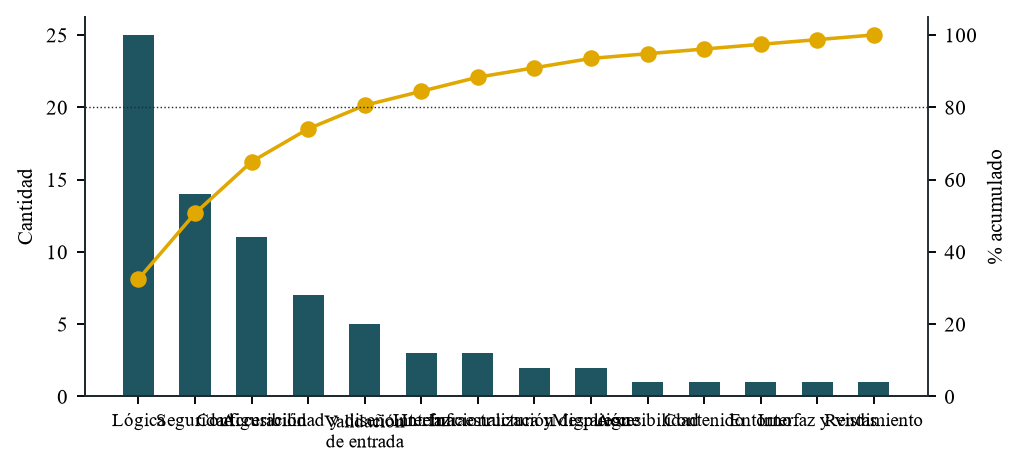
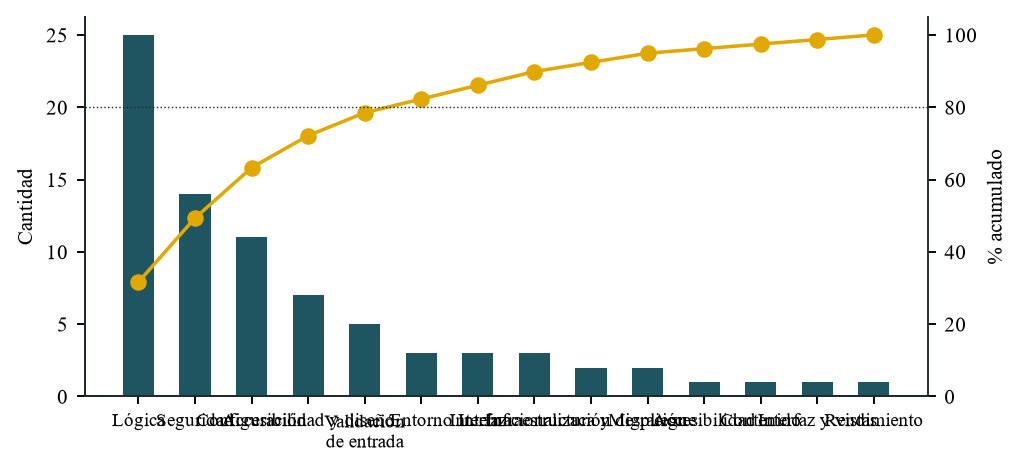
docs: log the emulator DNS loss and the ANR of the GPS background task

diff --git a/qa/datos_calidad.py b/qa/datos_calidad.py
@@ -320,6 +320,12 @@ DEFECTOS = [
     ('DEF-077', '18-nov-2026', 'Verificación de v1.0.0-rc1 en Azure', 'Tras actualizar, los menús en español seguían diciendo Indicadores y Reportes',
      'migrations/16.0.1.9.0/post-migrate.py', 'Una actualización sin --i18n-overwrite conserva las traducciones que ya estaban en la base, así que los menús renombrados mantenían el nombre viejo.',
      'Internacionalización', 'Cerrado', 'Producción: -u con --i18n-overwrite, menús Reportes, Tablero y Notificaciones (Willachikuna en kichwa); desarrollo: la migración devuelve el nombre nuevo a un menú con el viejo'),
+    ('DEF-078', '18-nov-2026', 'Prueba de la tableta en el emulador de Android Studio', 'El emulador perdió el DNS y la app mostraba «Sin conexión» al iniciar sesión',
+     'Entorno (emulador Android 17)', 'El emulador conserva el DNS de la red con la que arrancó; la red del PC cambió (red compartida y Tailscale) y dejó de resolver nombres, aunque las IP respondían.',
+     'Entorno', 'Cerrado', 'Reiniciar la red del emulador (svc wifi/data) o arrancarlo con -dns-server 8.8.8.8; después resolvió el dominio de Azure'),
+    ('DEF-079', '18-nov-2026', 'Prueba de la tableta en el emulador de Android Studio', 'Android muestra «la aplicación no responde» durante el turno aunque la app sigue funcionando',
+     'expo-task-manager (TaskJobService) en Android 17', 'Cada posición del GPS en segundo plano llega por un trabajo de JobScheduler; en el emulador con Android 17 el sistema no logra enlazar el servicio (Timed out while trying to bind, stated jobs went negative) y lo reporta como ANR. El hilo principal de la app estaba libre.',
+     'Entorno', 'Abierto', 'Pendiente: probar en una tableta real o en un emulador con Android 14 o 15; si se repite, agrupar las posiciones para crear menos trabajos'),
 ]
 
 # Ishikawa 1: why bad input reaches the system (DEF-008 to DEF-010).

diff --git a/docs/calidad/05-registro-de-defectos.md b/docs/calidad/05-registro-de-defectos.md
@@ -85,8 +85,10 @@ Cada defecto se registra con tres campos separados: fallo observado, defecto loc
 | DEF-075 | 18-nov-2026 | Reporte del usuario | El administrador no podía activar las notificaciones push en Windows: el botón se quedaba cargando | static/src/js/push_setup.js | Cerrado |
 | DEF-076 | 18-nov-2026 | Despliegue de v1.0.0-rc1 en Azure | La migración 16.0.1.9.0 no pudo borrar el rol grafana_reader en Supabase | migrations/16.0.1.9.0/pre-migrate.py | Cerrado |
 | DEF-077 | 18-nov-2026 | Verificación de v1.0.0-rc1 en Azure | Tras actualizar, los menús en español seguían diciendo Indicadores y Reportes | migrations/16.0.1.9.0/post-migrate.py | Cerrado |
+| DEF-078 | 18-nov-2026 | Prueba de la tableta en el emulador de Android Studio | El emulador perdió el DNS y la app mostraba «Sin conexión» al iniciar sesión | Entorno (emulador Android 17) | Cerrado |
+| DEF-079 | 18-nov-2026 | Prueba de la tableta en el emulador de Android Studio | Android muestra «la aplicación no responde» durante el turno aunque la app sigue funcionando | expo-task-manager (TaskJobService) en Android 17 | Abierto |
 
-Resumen: 77 registrados, 77 cerrados (100 %), 0 abiertos. Densidad: 15,3 defectos por KLOC (5,033 KLOC de Python sin pruebas).
+Resumen: 79 registrados, 78 cerrados (99 %), 1 abiertos. Densidad: 15,7 defectos por KLOC (5,033 KLOC de Python sin pruebas).
 
 ## 2. Análisis de causa raíz e impacto
 
@@ -552,6 +554,20 @@ Resumen: 77 registrados, 77 cerrados (100 %), 0 abiertos. Densidad: 15,3 defecto
 - **Categoría:** Internacionalización
 - **Prueba que lo protege:** Producción: -u con --i18n-overwrite, menús Reportes, Tablero y Notificaciones (Willachikuna en kichwa); desarrollo: la migración devuelve el nombre nuevo a un menú con el viejo
 
+### DEF-078: El emulador perdió el DNS y la app mostraba «Sin conexión» al iniciar sesión
+
+- **Causa raíz:** El emulador conserva el DNS de la red con la que arrancó; la red del PC cambió (red compartida y Tailscale) y dejó de resolver nombres, aunque las IP respondían.
+- **Categoría:** Entorno
+- **Prueba que lo protege:** Reiniciar la red del emulador (svc wifi/data) o arrancarlo con -dns-server 8.8.8.8; después resolvió el dominio de Azure
+
+### DEF-079: Android muestra «la aplicación no responde» durante el turno aunque la app sigue funcionando
+
+- **Causa raíz:** Cada posición del GPS en segundo plano llega por un trabajo de JobScheduler; en el emulador con Android 17 el sistema no logra enlazar el servicio (Timed out while trying to bind, stated jobs went negative) y lo reporta como ANR. El hilo principal de la app estaba libre.
+- **Categoría:** Entorno
+- **Prueba que lo protege:** Pendiente: probar en una tableta real o en un emulador con Android 14 o 15; si se repite, agrupar las posiciones para crear menos trabajos
+
 ## 3. Qué falta para cerrar los abiertos
 
-No queda ningún defecto abierto. DEF-013 (una credencial en el historial de git) se cerró al reescribir el historial y rotar la contraseña; `gitleaks` corre en el CI (`.github/workflows/ci.yml`) para que no se repita.
+Cada defecto abierto tiene su fase en `docs/arquitectura/PLAN-AUDITORIA-2.md` y la prueba que lo cerrará en la sección 2.
+
+1. DEF-079: Android muestra «la aplicación no responde» durante el turno aunque la app sigue funcionando

diff --git a/docs/calidad/07-pareto.md b/docs/calidad/07-pareto.md
@@ -22,22 +22,22 @@ Fallos de la suite en vivo (3) y de la auditoría aleatoria (57), por causa. Las
 
 | Categoría | Defectos | % | % acumulado |
 |---|---|---|---|
-| Lógica | 25 | 32,5 % | 32,5 % |
-| Seguridad | 14 | 18,2 % | 50,6 % |
-| Configuración | 11 | 14,3 % | 64,9 % |
-| Accesibilidad y diseño | 7 | 9,1 % | 74,0 % |
-| Validación de entrada | 5 | 6,5 % | 80,5 % |
-| Interfaz | 3 | 3,9 % | 84,4 % |
-| Internacionalización | 3 | 3,9 % | 88,3 % |
-| Infraestructura y despliegue | 2 | 2,6 % | 90,9 % |
-| Migración | 2 | 2,6 % | 93,5 % |
-| Accesibilidad | 1 | 1,3 % | 94,8 % |
-| Contenido | 1 | 1,3 % | 96,1 % |
-| Entorno | 1 | 1,3 % | 97,4 % |
+| Lógica | 25 | 31,6 % | 31,6 % |
+| Seguridad | 14 | 17,7 % | 49,4 % |
+| Configuración | 11 | 13,9 % | 63,3 % |
+| Accesibilidad y diseño | 7 | 8,9 % | 72,2 % |
+| Validación de entrada | 5 | 6,3 % | 78,5 % |
+| Entorno | 3 | 3,8 % | 82,3 % |
+| Interfaz | 3 | 3,8 % | 86,1 % |
+| Internacionalización | 3 | 3,8 % | 89,9 % |
+| Infraestructura y despliegue | 2 | 2,5 % | 92,4 % |
+| Migración | 2 | 2,5 % | 94,9 % |
+| Accesibilidad | 1 | 1,3 % | 96,2 % |
+| Contenido | 1 | 1,3 % | 97,5 % |
 | Interfaz y vistas | 1 | 1,3 % | 98,7 % |
 | Rendimiento | 1 | 1,3 % | 100,0 % |
 
-**Lectura:** con la auditoría del 2-nov la lógica y la seguridad pasan a encabezar: los defectos ya no están en la entrada de datos sino en reglas que se cumplían sólo en un lado (la vista y no el método, la tableta y no el servidor). No queda ningún defecto abierto.
+**Lectura:** con la auditoría del 2-nov la lógica y la seguridad pasan a encabezar: los defectos ya no están en la entrada de datos sino en reglas que se cumplían sólo en un lado (la vista y no el método, la tableta y no el servidor). Quedan abiertos: DEF-079, de la segunda auditoría (17-nov); de nuevo la lógica y la seguridad dominan, ahora en el despliegue y en la cola de la tableta.
 
 ## 3. Problemas encontrados durante la construcción (57)
 

diff --git a/docs/calidad/04-resultados-y-metricas.md b/docs/calidad/04-resultados-y-metricas.md
@@ -15,7 +15,7 @@ Generado por `qa/generar_docs.py` con los datos de la ejecución del 5-nov-2026.
 | Capacidad de ingesta (100 buses, un reporte cada 10 s) | ≥ 10 req/s | 37,1 req/s | Sí |
 | Cobertura de código (sentencias y ramas) | ≥ 80 % | 95,9 % | Sí |
 | Cobertura de rutas HTTP | 100 % | 100,0 % | Sí |
-| Defectos cerrados | ≥ 90 % | 100,0 % | Sí |
+| Defectos cerrados | ≥ 90 % | 98,7 % | Sí |
 | Posiciones con datos imposibles | 0 | 0 | Sí |
 | Integridad concurrente (P6: 20 envíos iguales) | 1 guardada | 1 guardada | Sí |
 
